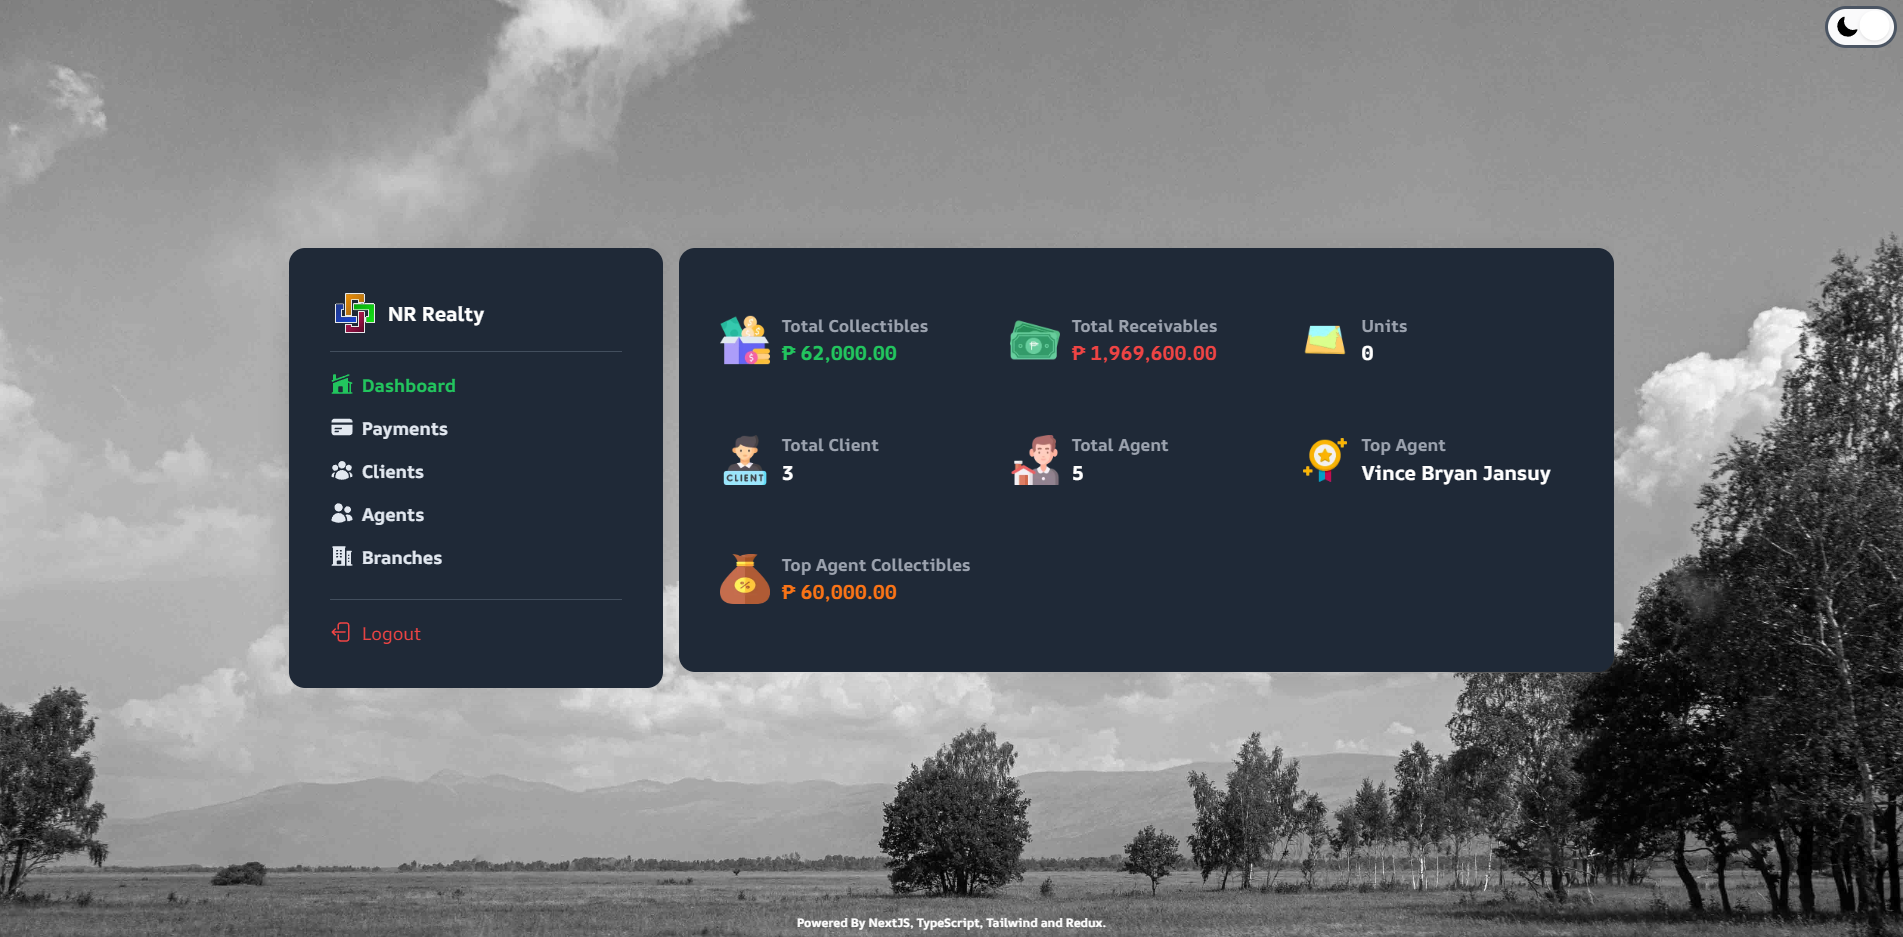
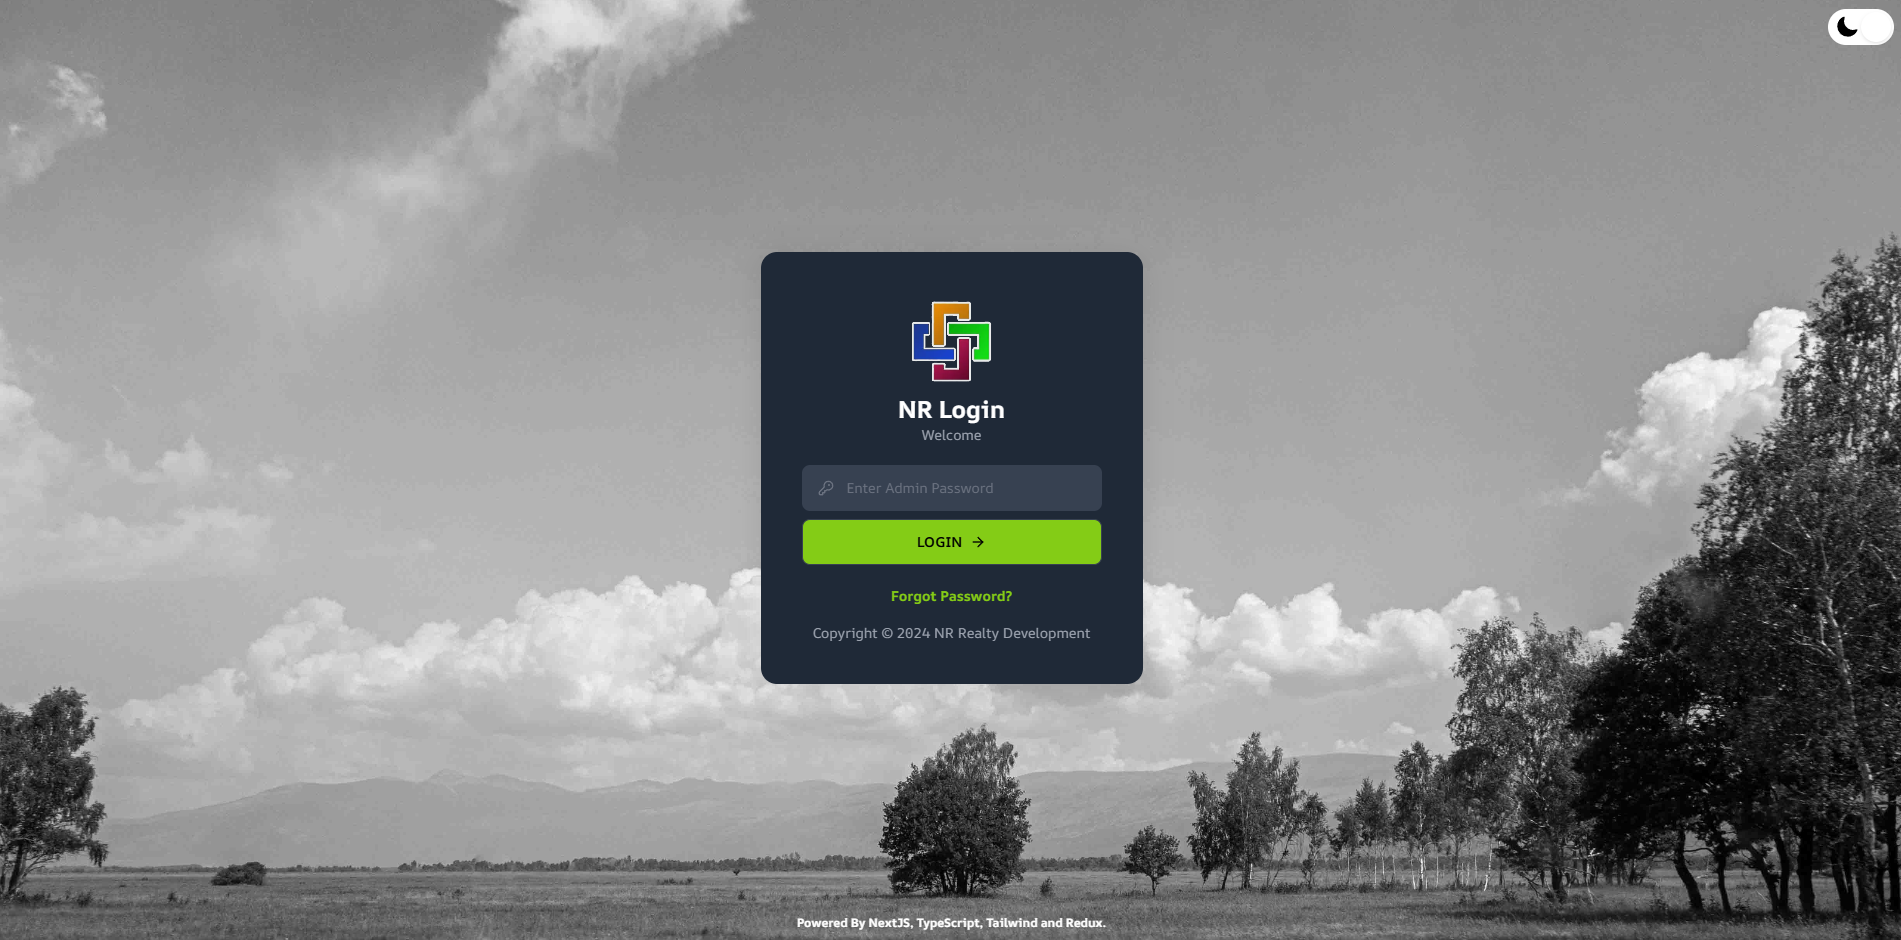
Improved routing and rendering of components

diff --git a/app/components/PageWrapper/MainWrapper.tsx b/app/components/PageWrapper/MainWrapper.tsx
@@ -7,7 +7,7 @@ import Image from "next/image"
 import { HomeModernIcon, CreditCardIcon, UserGroupIcon, UsersIcon, BuildingOffice2Icon } from '@heroicons/react/24/solid'
 
 import NRLogo from "@/public/nr.png"
-import { useRouter } from 'next/navigation'
+import { useRouter, usePathname } from 'next/navigation'
 
 type MainWrapperProps = {
   children: React.ReactNode
@@ -17,18 +17,24 @@ type SideLinkProps = { title: string, Icon: React.ReactNode, url: string }
 
 const MainWrapper = ({ children }: MainWrapperProps) => {
   const router = useRouter()
+  const pathname = usePathname()
   const [links, setLinks] = useState<SideLinkProps[]>([]);
 
+
   const SideLink = ({ title, Icon, url }: SideLinkProps) => {
-    const isCurrentPath = String(window.location.pathname).includes(url)
     return (<div
+      key={url}
       className={`flex flex-row gap-2 mb-4 hover:text-slate-400 
-        ${isCurrentPath ? ' text-green-600 dark:text-green-500' : 'text-slate-700 dark:text-slate-200'}`}
+        ${isCurrentPath(url) ? ' text-green-600 dark:text-green-500' : 'text-slate-700 dark:text-slate-200'}`}
       role="button"
       onClick={() => { router.replace(url) }}>
       {Icon}
       <div className="font-bold hidden md:block">{title}</div>
     </div>)
+  }
+
+  const isCurrentPath = (url: string) => {
+    return String(window.location.pathname).includes(url)
   }
 
   useEffect(() => {
@@ -59,41 +65,64 @@ const MainWrapper = ({ children }: MainWrapperProps) => {
         Icon: <BuildingOffice2Icon className="h-6 w-6" />
       },
     ]
-
     setLinks(links)
+  }, [pathname])
 
-  }, [])
+  const getPageTitle = (path: string) => {
+    switch (path) {
+      case '/dashboard':
+        return 'Dashboard'
+      case '/payments':
+        return 'Payments'
+      case '/clients':
+        return 'Clients'
+      case '/agents':
+        return 'Agents'
+      case '/branches':
+        return 'Branches'
+      default:
+        return 'Menu'
+    }
+  }
+
+  const isOutsideLink = () => {
+    const listOfPathnames = ["/login", "/"];
+    return listOfPathnames.indexOf(pathname) != -1
+  }
 
 
-  return (
-    <>
-      <div className=" flex lg:items-center pt-12 lg:pt-0 justify-center h-[100%] lg:h-[100vh]">
-        <div className="flex flex-row flex-wrap justify-center w-full gap-4 mx-4">
-          <div className="basis-full lg:basis-1/5 py-5">
-            <Card>
-              <div className='flex items-center gap-2' >
-                <Image className="object-cover w-[50px] h-[50px] opacity-90" src={NRLogo} alt="" />
-                <div className="font-bold text-xl dark:text-white"> NR Realty</div>
-              </div>
-              <div className="border-b border-slate-400 mb-5 mt-3 opacity-30"></div>
-              <div className="flex flex-row lg:flex-col justify-between">
-                {links?.length > 0 && links.map((data: SideLinkProps) =>
-                  <SideLink title={data.title} url={data.url} Icon={data.Icon} />
-                )}
-              </div>
-              <div className="border-b border-slate-400 mb-5 mt-3 opacity-30"></div>
-              <Logout />
-            </Card>
-          </div>
-          <div className="basis-full lg:basis-3/4 xl:basis-2/4 overflow-hidden py-5">
-            <Card>
-              {children}
-            </Card>
-          </div>
+  return isOutsideLink() ? children :
+    <div className=" flex lg:items-center pt-12 lg:pt-0 justify-center h-[100%] lg:h-[100vh]">
+      <div className="flex flex-row flex-wrap justify-center w-full gap-4 mx-4">
+        <div className="basis-full lg:basis-1/5 py-5">
+          <Card>
+            <div className='flex items-center gap-2' >
+              <Image className="object-cover w-[50px] h-[50px] opacity-90" src={NRLogo} alt="" />
+              <div className="font-bold text-xl dark:text-white"> NR Realty</div>
+            </div>
+            <div className="border-b border-slate-400 mb-5 mt-3 opacity-30"></div>
+            <div className="flex flex-row lg:flex-col justify-between">
+              {links?.length > 0 && links.map((data: SideLinkProps) =>
+                <SideLink key={data.url} title={data.title} url={data.url} Icon={data.Icon} />
+              )}
+            </div>
+            <div className="border-b border-slate-400 mb-5 mt-3 opacity-30"></div>
+            <Logout />
+          </Card>
+        </div>
+        <div className="basis-full lg:basis-3/4 xl:basis-2/4 overflow-hidden py-5">
+          <Card>
+            <div className='flex items-center gap-2' >
+              <div className="font-bold text-xl dark:text-white mt-3 pb-3">{getPageTitle(pathname)}</div>
+            </div>
+            <div className="border-b border-slate-400 mb-5 mt-3 opacity-30"></div>
+            {children}
+          </Card>
         </div>
       </div>
-    </>
-  )
+    </div>
 }
+
+
 
 export default MainWrapper

diff --git a/app/(pages)/dashboard/page.tsx b/app/(pages)/dashboard/page.tsx
@@ -61,37 +61,37 @@ const Page = () => {
     return (
       <>
         <div className='grid grid-cols-2 md:grid-cols-3 gap-4'>
-          <Item title="Total Collectibles" className='my-6' icon={CollectMoneyIcon as HTMLImageElement}>
+          <Item title="Total Collectibles" className='my-3' icon={CollectMoneyIcon as HTMLImageElement}>
             <span className='text-green-700 dark:text-green-500 font-bold'>
               {formatNumber(data.overall_lot.collectibles)}
             </span>
           </Item>
-          <Item title="Total Receivables" className='my-6' icon={ReceiveMoneyIcon as HTMLImageElement}>
+          <Item title="Total Receivables" className='my-3' icon={ReceiveMoneyIcon as HTMLImageElement}>
             <span className='text-red-700 dark:text-red-500 font-bold '>
               {formatNumber(data.overall_lot.receivables)}
             </span>
           </Item>
-          <Item title="Units" className='my-6' icon={AvailableUnitIcon as HTMLImageElement}>
+          <Item title="Units" className='my-3' icon={AvailableUnitIcon as HTMLImageElement}>
             <span className='text-slate-500 font-bold dark:text-white'>
               {formatNumber(data.available_units, 0, '')}
             </span>
           </Item>
-          <Item title="Total Client" className='my-6' icon={TotalClientIcon as HTMLImageElement}>
+          <Item title="Total Client" className='my-3' icon={TotalClientIcon as HTMLImageElement}>
             <span className='text-slate-500 font-bold dark:text-white'>
               {formatNumber(data.client_count, 0, '')}
             </span>
           </Item>
-          <Item title="Total Agent" className='my-6' icon={TotalAgentIcon as HTMLImageElement}>
+          <Item title="Total Agent" className='my-3' icon={TotalAgentIcon as HTMLImageElement}>
             <span className='text-slate-500 font-bold dark:text-white'>
               {formatNumber(data.agent_count, 0, '')}
             </span>
           </Item>
-          <Item title="Top Agent" className='my-6' icon={TopAgentIcon as HTMLImageElement}>
+          <Item title="Top Agent" className='my-3' icon={TopAgentIcon as HTMLImageElement}>
             <span className='text-slate-500 font-bold dark:text-white'>
               {data.top_agent[0].agent_name}
             </span>
           </Item>
-          <Item title="Top Agent Collectibles" className='my-6'  icon={TopAgentCollectible as HTMLImageElement}>
+          <Item title="Top Agent Collectibles" className='my-3'  icon={TopAgentCollectible as HTMLImageElement}>
           <span className='text-orange-700 dark:text-orange-500 font-bold'>
               {formatNumber(data.top_agent[0].collectibles)}
             </span>

diff --git a/app/components/PageWrapper/PageWrapper.tsx b/app/components/PageWrapper/PageWrapper.tsx
@@ -1,15 +1,18 @@
-'use client'
+
 import React from 'react'
 import ToggleTheme from "@/app/components/ToggleTheme/ToggleTheme";
 import Auth from "@/app/components/Auth/Auth";
+import MainWrapper from './MainWrapper';
 
 const page = ({ children }: { children: React.ReactNode }) => {
   return (
     <div className='relative h-[100vh] overflow-y-scroll'>
       <div className="bg-land dark:bg-dark-land bg-cover bg-fixed text-slate-800 min-h-[100%]">
-        <Auth>
-          {children}
-        </Auth>
+        <MainWrapper>
+          <Auth>
+            {children}
+          </Auth>
+        </MainWrapper>
         <div className="mt-[10px] lg:mt-[-26px] w-full">
           <div className="flex items-center text-center text-[12px] justify-center text-white font-bold pb-2">
             Powered By NextJS, TypeScript, Tailwind and Redux.
